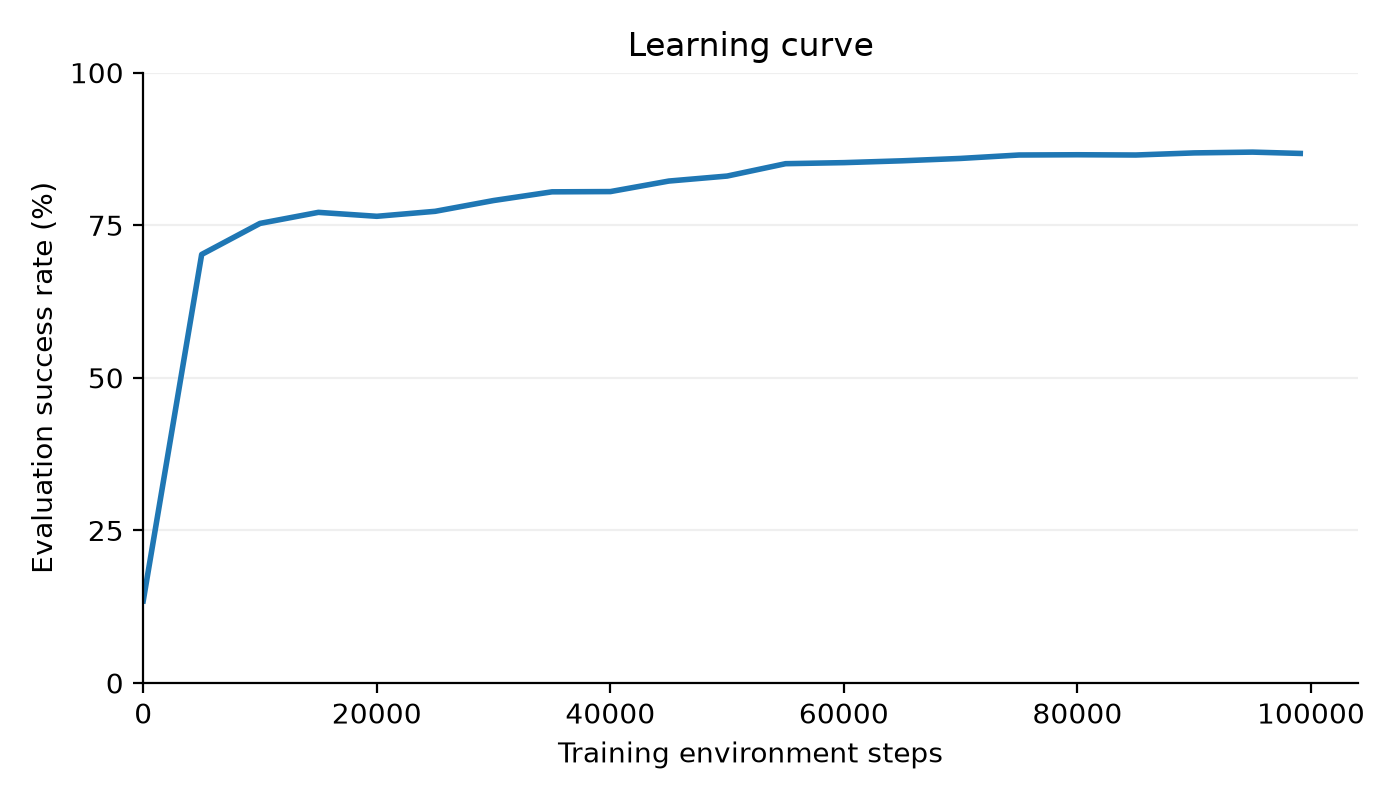
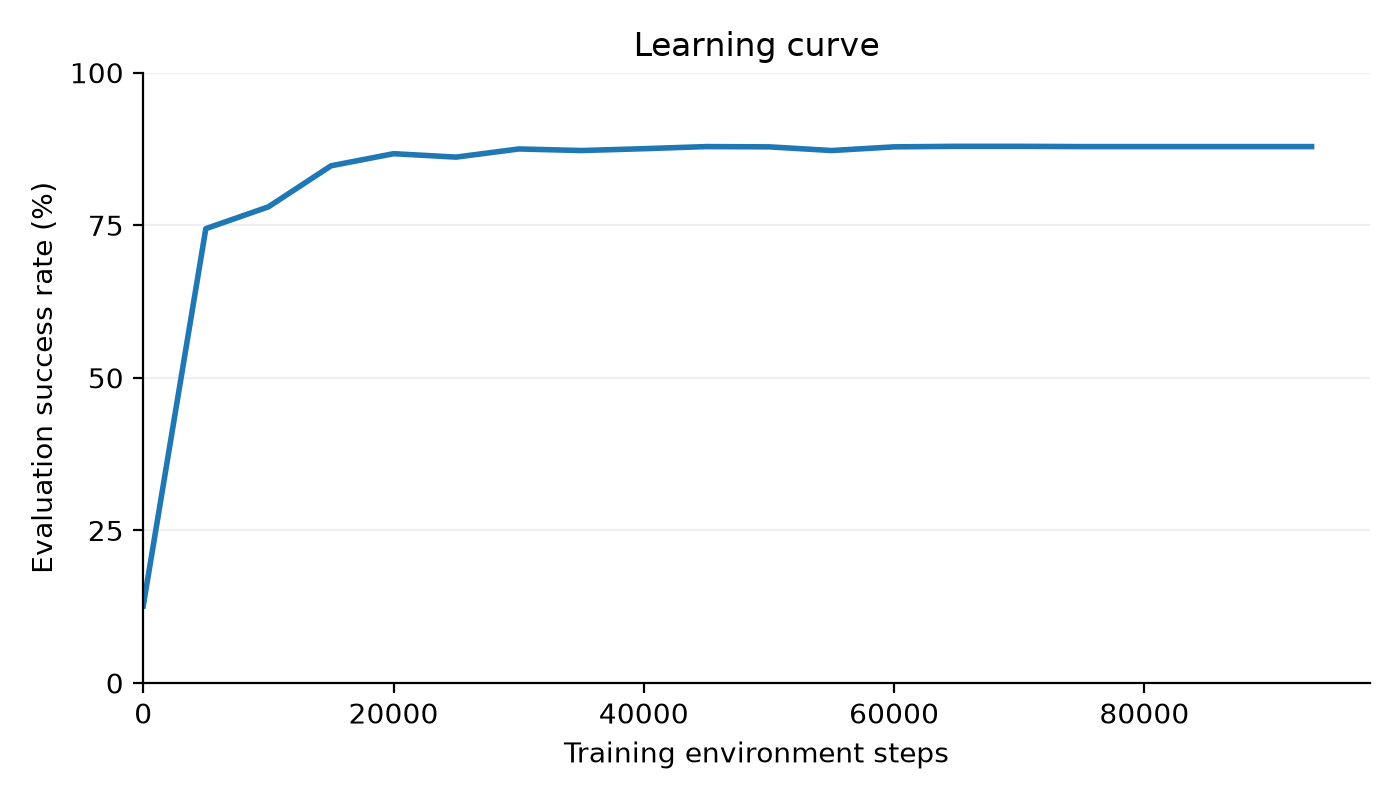
increase hidden parameters in policy from 32 to 128

diff --git a/policy.py b/policy.py
@@ -5,9 +5,9 @@ class Policy(nn.Module):
         super().__init__()
 
         self.policy = nn.Sequential(
-            nn.Linear(in_features=2, out_features=32, bias=True),
+            nn.Linear(in_features=2, out_features=128, bias=True),
             nn.ReLU(),
-            nn.Linear(in_features=32, out_features=4, bias=True), # outputs 1 logit per direction
+            nn.Linear(in_features=128, out_features=4, bias=True), # outputs 1 logit per direction
         )
 
     def forward(self, state):
